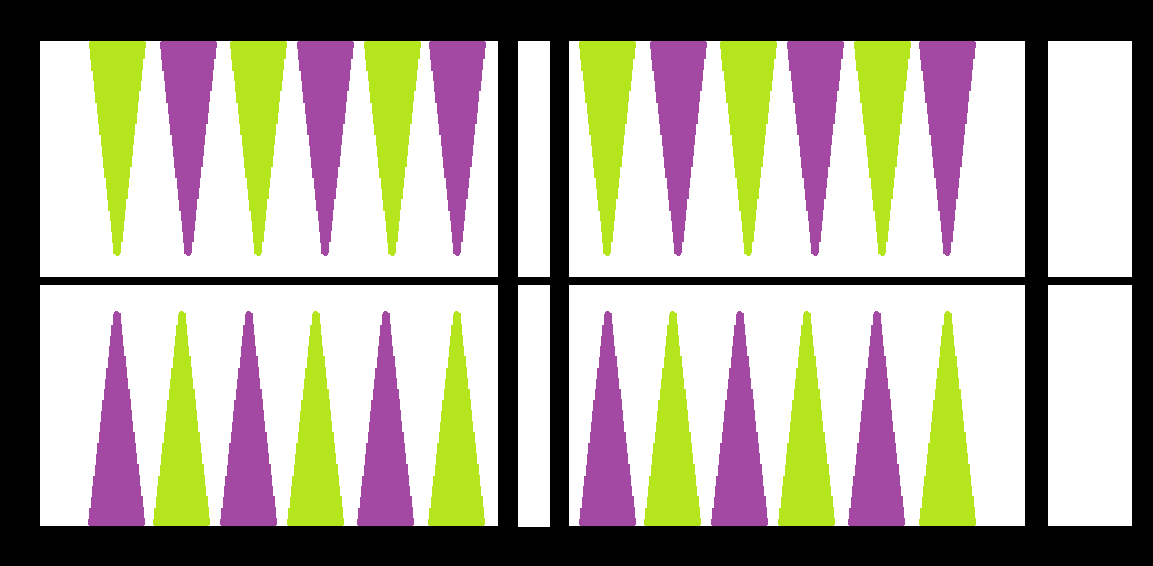
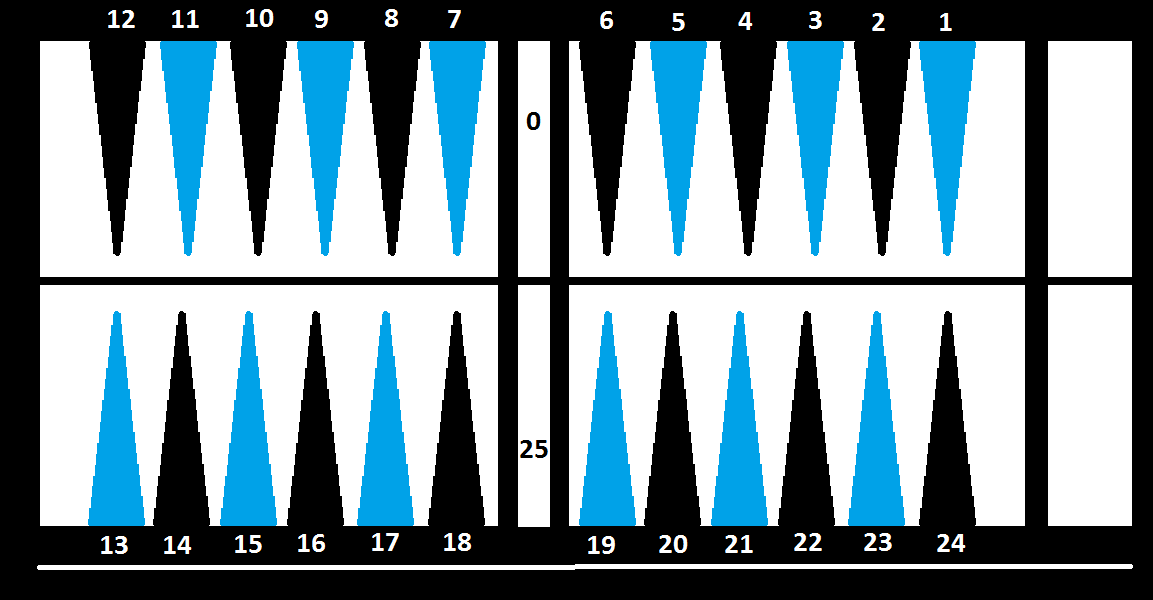
Removed bg images, settings now using .prop files + moved them to res.

diff --git a/src/backgammon/settings/GenAlgSettings.java b/src/backgammon/settings/GenAlgSettings.java
@@ -1,85 +1,88 @@
 /**
- * 	GNU General Public License
+ * 	GNU General public static License
  * 
  *  This file is part of GA-mmon.
  *  
  *  GA-mmon is free software: you can redistribute it and/or modify
- *  it under the terms of the GNU General Public License as published by
+ *  it under the terms of the GNU General public static License as published by
  *  the Free Software Foundation, either version 3 of the License, or
  *  (at your option) any later version.
  *  
  *  GA-mmon is distributed in the hope that it will be useful,
  *  but WITHOUT ANY WARRANTY; without even the implied warranty of
  *  MERCHANTABILITY or FITNESS FOR A PARTICULAR PURPOSE.  See the
- *  GNU General Public License for more details.
+ *  GNU General public static License for more details.
  *  
- *  You should have received a copy of the GNU General Public License
+ *  You should have received a copy of the GNU General public static License
  *  along with GA-mmon.  If not, see <http://www.gnu.org/licenses/>.
 */
 
-
 package backgammon.settings;
+
+import java.io.FileInputStream;
+import java.io.IOException;
+import java.io.InputStream;
+import java.util.Properties;
 
 public class GenAlgSettings {
 	
-	private static final boolean displayConsole = true;
-
-    private static final double uniformRate = 0.5;
-    private static final double mutationRate = 0.3;
-    
-    /** tournamentSize. Has to be a multiple of 4 for the tournament method to work correctly */
-    private static final int tournamentSize = 8;
-    
-    private static final boolean elitism = true;
-    private static final int generations = 50;
-    private static final int populationSize = 10;
-    private static final String savePath = "savedPlayers/Attempt6/";
+    public static String getPropertyFromFile(String propVar){
+		Properties properties = new Properties();
+		InputStream input = null;
+	 
+		try {
+			input = new FileInputStream("resources/settings/GenAlgSettings.properties");
+			properties.load(input);
+			return properties.getProperty(propVar);
+	 
+		} catch (IOException ex) {
+			ex.printStackTrace();
+		} finally {
+			if (input != null) {
+				try {
+					input.close();
+				} catch (IOException e) {
+					e.printStackTrace();
+				}
+			}
+		}
+		return null;
+    }
     
     public static double getUniformrate() {
-		return uniformRate;
+		return Double.valueOf(getPropertyFromFile("uniformRate"));
 	}
-
 	public static double getMutationrate() {
-		return mutationRate;
+		return Double.valueOf(getPropertyFromFile("mutationRate"));
 	}
-
 	public static int getTournamentsize() {
-		return tournamentSize;
+		return Integer.valueOf(getPropertyFromFile("tournamentSize"));
 	}
-
 	public static int getPopulationsize() {
-		return populationSize;
+		return Integer.valueOf(getPropertyFromFile("populationSize"));
 	}
-
 	public static String getSavePath() {
-		return savePath;
+		return getPropertyFromFile("savePath");
 	}
-
     public static double getUniformRate() {
-		return uniformRate;
+		return Double.valueOf(getPropertyFromFile("uniformRate"));
 	}
-
 	public static double getMutationRate() {
-		return mutationRate;
+		return Double.valueOf(getPropertyFromFile("mutationRate"));
 	}
-
 	public static int getTournamentSize() {
-		return tournamentSize;
+		return Integer.valueOf(getPropertyFromFile("tournamentSize"));
 	}
-
 	public static boolean isElitism() {
-		return elitism;
+		return Boolean.valueOf(getPropertyFromFile("elitism"));
 	}
-
 	public static int getGenerations() {
-		return generations;
+		return Integer.valueOf(getPropertyFromFile("generations"));
 	}
-
 	public static int getPopulationSize() {
-		return populationSize;
+		return Integer.valueOf(getPropertyFromFile("populationSize"));
 	}
-
 	public static boolean isDisplayconsole() {
-		return displayConsole;
+		return Boolean.valueOf(getPropertyFromFile("displayConsole"));
 	}
 }

diff --git a/src/backgammon/settings/GameSettings.java b/src/backgammon/settings/GameSettings.java
@@ -17,8 +17,11 @@
  *  along with GA-mmon.  If not, see <http://www.gnu.org/licenses/>.
 */
 
-
 package backgammon.settings;
+import java.io.FileInputStream;
+import java.io.IOException;
+import java.io.InputStream;
+import java.util.Properties;
 
 /**
  * GameSettings class
@@ -31,39 +34,46 @@ package backgammon.settings;
  */
 public class GameSettings {
 	
-	private static boolean isP1Black = true;
-	private static boolean areBothAIs = true;
-	private static int timeDelay = 0;
-	private static boolean displayGUI = true;
-	private static boolean displayConsole = false;
-	
-	/** currently not working */
-	private static boolean multiThreading = false;
-	
-	
+    public static String getPropertyFromFile(String propVar){
+		Properties properties = new Properties();
+		InputStream input = null;
+	 
+		try {
+			input = new FileInputStream("resources/settings/GameSettings.properties");
+			properties.load(input);
+			return properties.getProperty(propVar);
+	 
+		} catch (IOException ex) {
+			ex.printStackTrace();
+		} finally {
+			if (input != null) {
+				try {
+					input.close();
+				} catch (IOException e) {
+					e.printStackTrace();
+				}
+			}
+		}
+		return null;
+    }
+
+	//GETTERS
 	public static int getTimeDelay(){
-		return timeDelay;
+		return Integer.valueOf(getPropertyFromFile("timeDelay"));
 	}
-	
 	public static boolean getAreBothAI(){
-		return areBothAIs;
+		return Boolean.valueOf(getPropertyFromFile("areBothAIs"));
 	}
-	
 	public static boolean isP1Black(){
-		return isP1Black;
+		return Boolean.valueOf(getPropertyFromFile("isP1Black"));
 	}
-
-
 	public static boolean getDisplayGUI() {
-		return displayGUI;
+		return Boolean.valueOf(getPropertyFromFile("displayGUI"));
 	}
-	
 	public static boolean getDisplayConsole(){
-		return displayConsole;
+		return Boolean.valueOf(getPropertyFromFile("displayConsole"));
 	}
-
 	public static boolean getMultiThreading() {
-		return multiThreading;
+		return Boolean.valueOf(getPropertyFromFile("multiThreading"));
 	}
-	
 }

diff --git a/src/backgammon/gui/BoardPanel.java b/src/backgammon/gui/BoardPanel.java
@@ -68,7 +68,7 @@ public class BoardPanel extends JPanel{
 		g2.setFont(new Font("default", Font.BOLD, 16));
 		
 		//Drawing background
-		imgBG = Toolkit.getDefaultToolkit().getImage("images/Backgammon blank board3.png");
+		imgBG = Toolkit.getDefaultToolkit().getImage("images/Backgammon blank board.png");
 	    g2.drawImage(imgBG, 0, 0, this);
 	    
 
